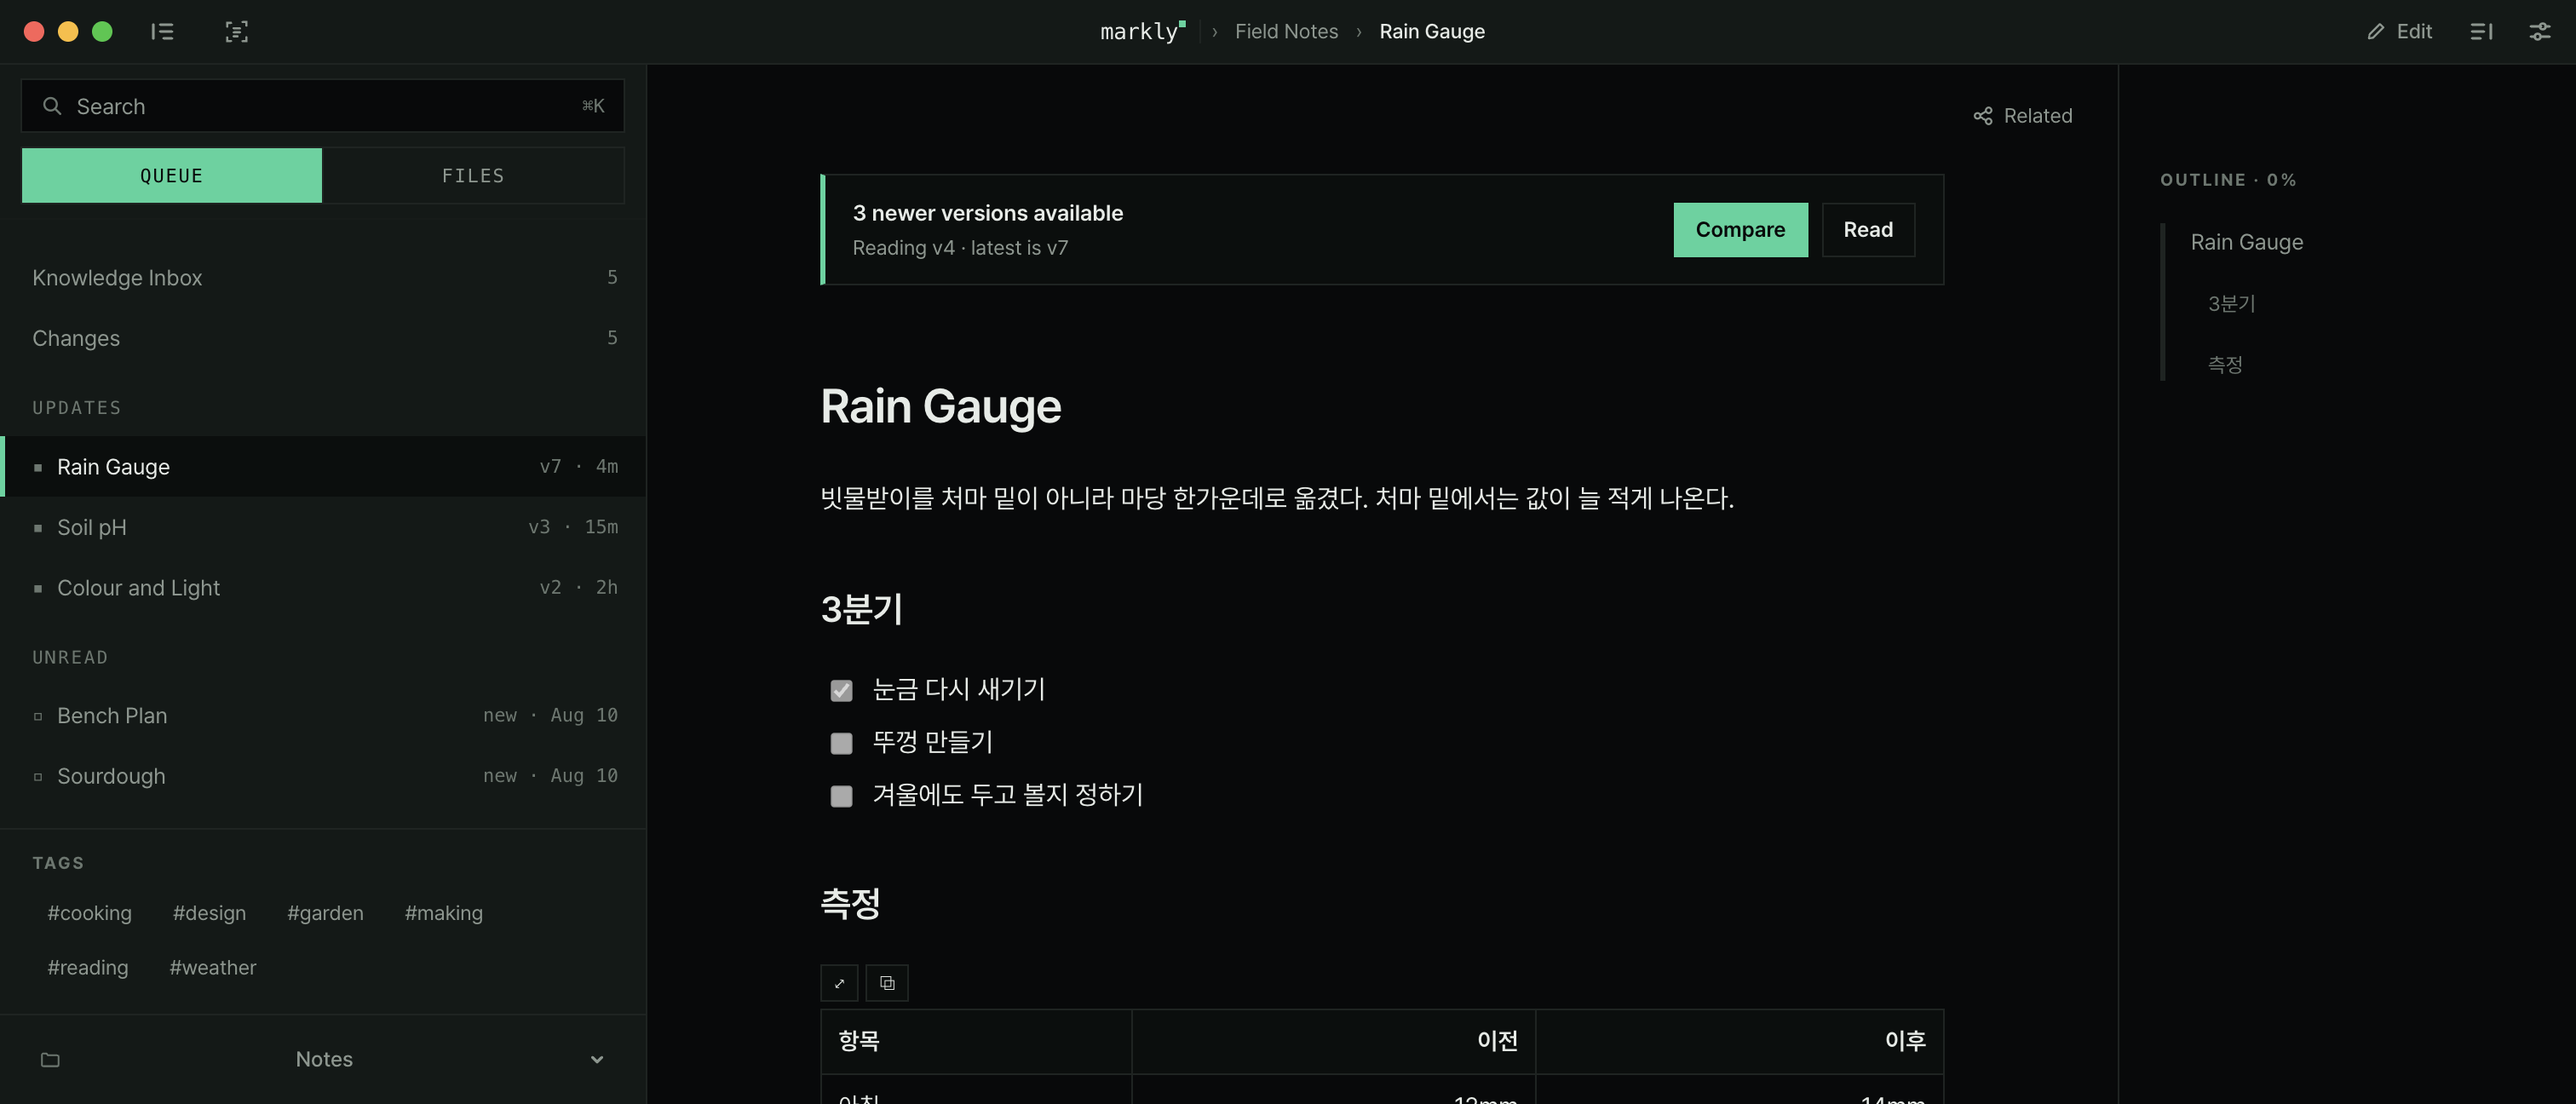
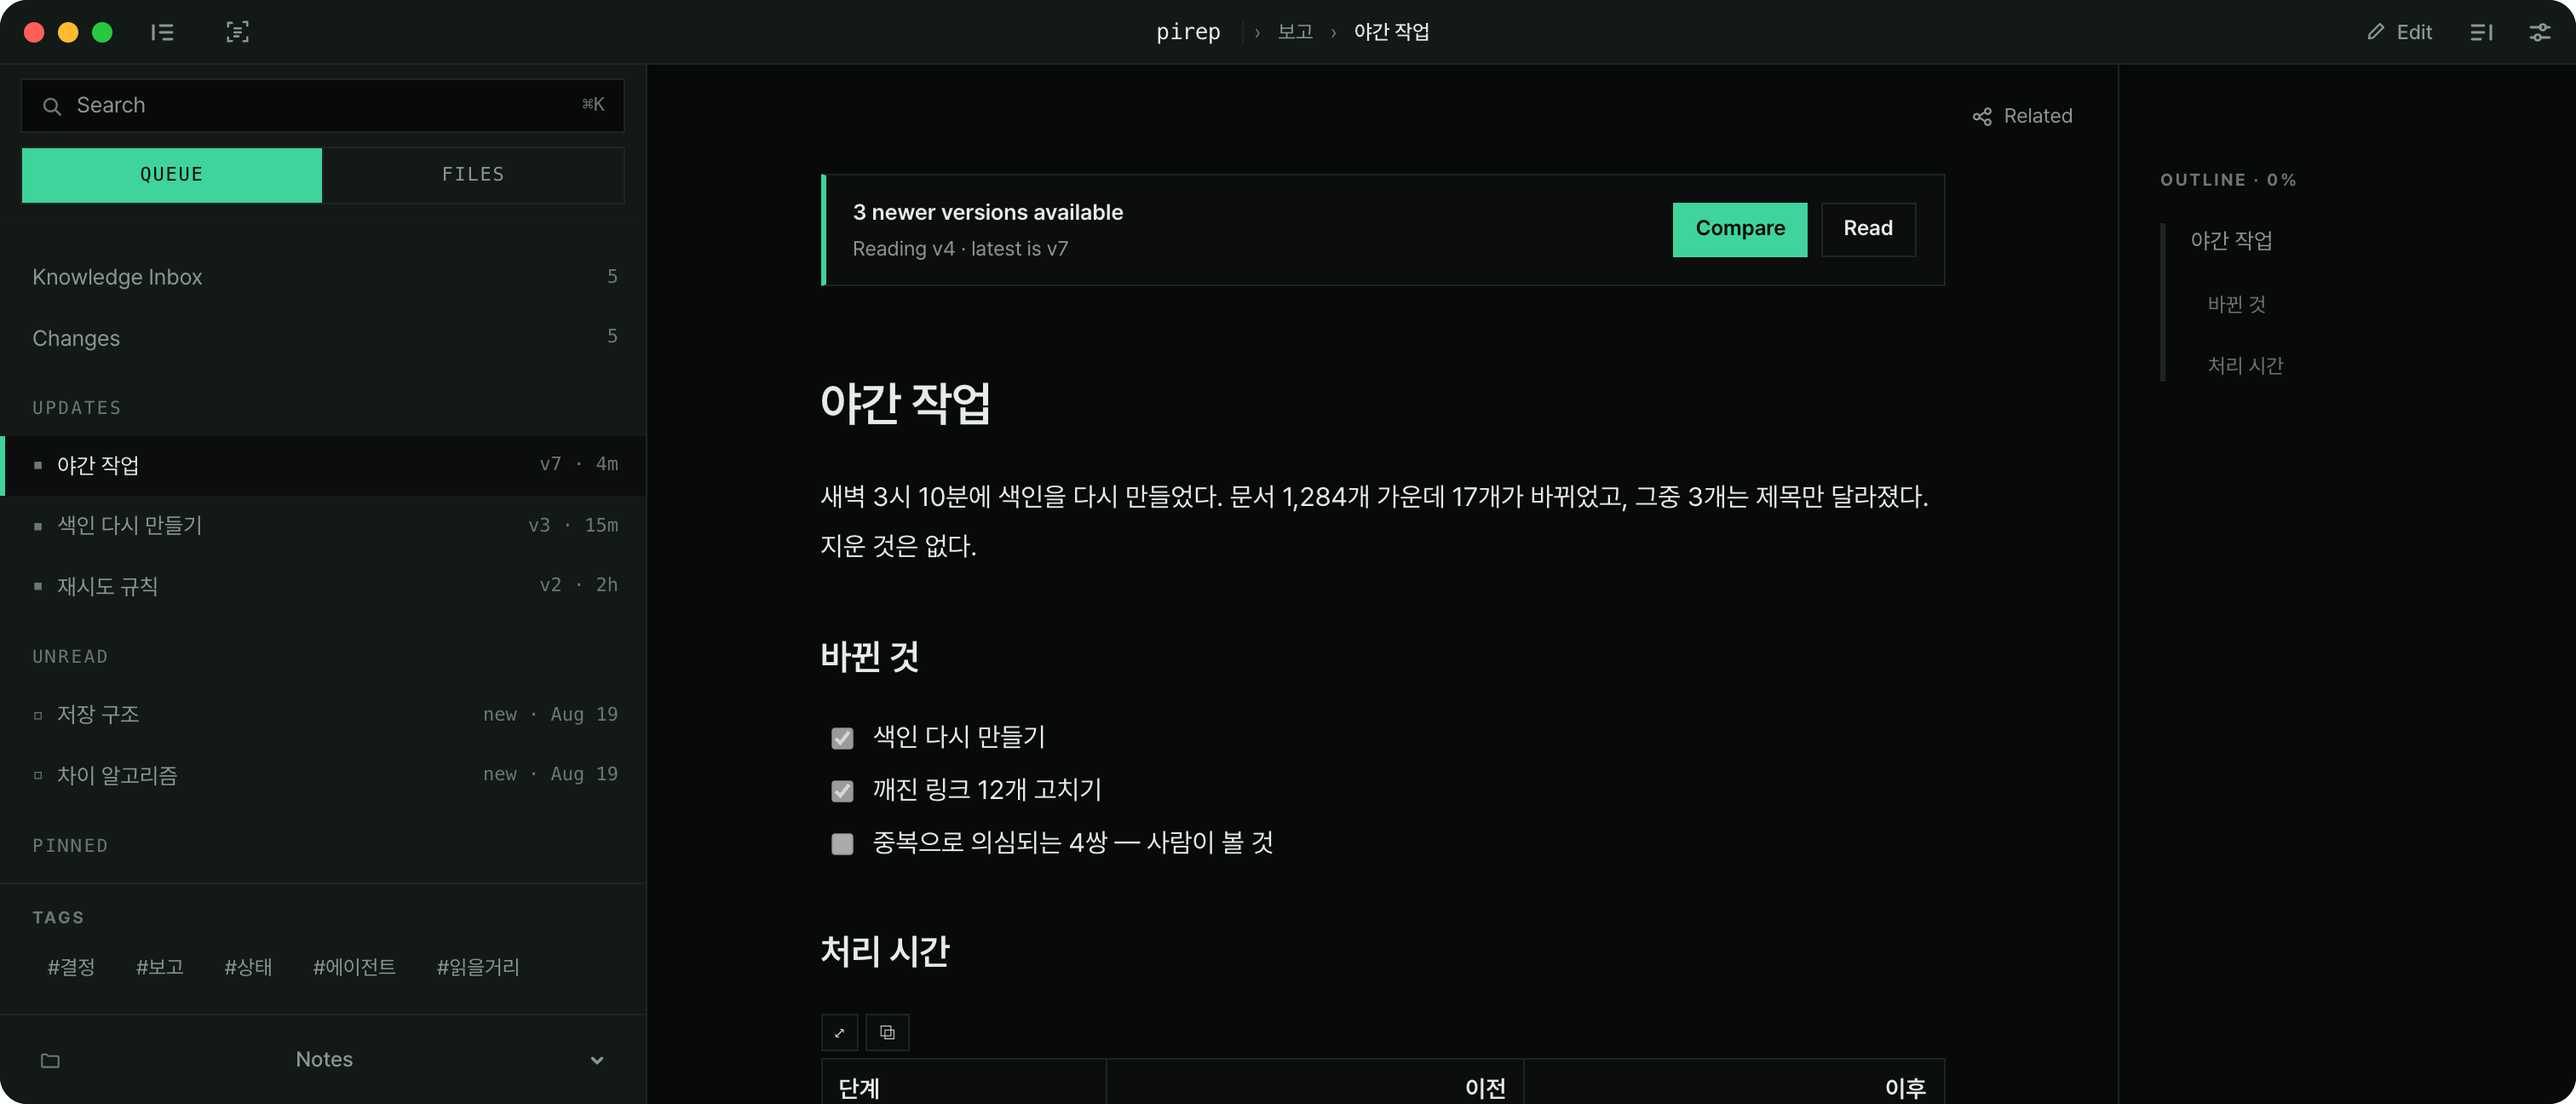
feat: retake the screenshots and tidy the install section
The screenshots still showed the old name in the window. They are taken in a
browser now, from the demo build of the app's own components, so a retake
needs no desktop session: light and dark, 1512x648 at 2x, English pages get
their own pair.

The install section had turned into a stack of unlike rows — two links, a
grey line, then two more grey lines. It is now the command, one sentence
about the dmg with the first-launch step attached to it, and a two-line
footnote. The link to the script is gone: from the English page it resolved
to /en/install.sh, which Pages answered with the site shell rather than the
script. The version in the facts table links to the changelog instead.

install.sh speaks English now — its comments already did, but everything it
prints while installing was in Korean.

Claude-Session: https://claude.ai/code/session_01E7TjQGctJ1UY3Fng7a3haP

diff --git a/site/en/index.html b/site/en/index.html
@@ -120,8 +120,8 @@ You read.</span></h1>
 
   <div  style="border-bottom: 1px solid var(--line); background: var(--bg-2);">
     <div  style="max-width: 1120px; margin: 0px auto; padding: 48px 28px 0px;">
-      <img  src="../assets/hero-reader-light.png" alt="The pirep reader — reading queue on the left, the note in the middle, its outline on the right" style="display: block; width: 100%; height: auto; border-top-color: ; border-top-style: ; border-top-width: ; border-right-color: ; border-right-style: ; border-right-width: ; border-bottom: 0px; border-left-color: ; border-left-style: ; border-left-width: ; border-image-source: ; border-image-slice: ; border-image-width: ; border-image-outset: ; border-image-repeat: ; background: var(--bg);">
-      <img  src="../assets/hero-reader-dark.png" alt="The pirep reader — reading queue on the left, the note in the middle, its outline on the right" style="display: none; width: 100%; height: auto; border-top-color: ; border-top-style: ; border-top-width: ; border-right-color: ; border-right-style: ; border-right-width: ; border-bottom: 0px; border-left-color: ; border-left-style: ; border-left-width: ; border-image-source: ; border-image-slice: ; border-image-width: ; border-image-outset: ; border-image-repeat: ; background: var(--bg);">
+      <img  src="../assets/hero-reader-en-light.png" alt="The pirep reader — reading queue on the left, the note in the middle, its outline on the right" style="display: block; width: 100%; height: auto; border-top-color: ; border-top-style: ; border-top-width: ; border-right-color: ; border-right-style: ; border-right-width: ; border-bottom: 0px; border-left-color: ; border-left-style: ; border-left-width: ; border-image-source: ; border-image-slice: ; border-image-width: ; border-image-outset: ; border-image-repeat: ; background: var(--bg);">
+      <img  src="../assets/hero-reader-en-dark.png" alt="The pirep reader — reading queue on the left, the note in the middle, its outline on the right" style="display: none; width: 100%; height: auto; border-top-color: ; border-top-style: ; border-top-width: ; border-right-color: ; border-right-style: ; border-right-width: ; border-bottom: 0px; border-left-color: ; border-left-style: ; border-left-width: ; border-image-source: ; border-image-slice: ; border-image-width: ; border-image-outset: ; border-image-repeat: ; background: var(--bg);">
     </div>
   </div>
 
@@ -351,19 +351,14 @@ You read.</span></h1>
 <span style="color: var(--text-3);">$ </span>open -a pirep</div>
             </div>
           </div>
-          <div  style="display: flex; align-items: center; gap: 14px; flex-wrap: wrap; margin-top: 18px;">
-            <a  href="https://github.com/garamnohhh/pirep/releases/latest" style="font-size: 12.5px;">Download the dmg (14 MB)</a>
-            <a  href="./install.sh" style="font-size: 12.5px;">Read the script</a>
-            <span  class="gn-mono" style="font-size: 11px; color: var(--text-3);">Apple silicon · Windows and Linux are on the way</span>
-            <a  href="./changelog.html" style="font-size: 12.5px;">See what changed in 0.1.1</a>
-          </div>
-          <p  class="gn-mono" style="font-size: 11px; line-height: 1.8; color: var(--text-3); margin: 14px 0px 0px; max-width: 52ch;">With the dmg, the first launch needs one click in System Settings &gt; Privacy &amp; Security &gt; Open Anyway.<br>To remove it: rm -rf /Applications/pirep.app</p>
+          <p  style="font-size: 12.5px; line-height: 1.8; color: var(--text-2); margin: 16px 0px 0px; max-width: 52ch; text-wrap: pretty;">If you would rather not use a terminal, take the dmg from the <a href="https://github.com/garamnohhh/pirep/releases/latest">release page</a>. An app installed that way needs one pass through System Settings &gt; Privacy &amp; Security &gt; Open Anyway on its first launch.</p>
+          <p  class="gn-mono" style="font-size: 11px; line-height: 1.8; color: var(--text-3); margin: 12px 0px 0px;">macOS on Apple silicon. Windows and Linux are on the way.<br>To remove it: rm -rf /Applications/pirep.app</p>
         </div>
         <div  style="border: 1px solid var(--line); background: var(--surface); margin-top: 38px;">
           
             <div  style="display: flex; align-items: baseline; gap: 20px; padding: 14px 20px; border-bottom: 1px solid var(--line-soft);">
               <span  class="gn-mono" style="font-size: 11px; letter-spacing: 0.14em; text-transform: uppercase; color: var(--text-3); width: 104px; flex: 0 0 auto;"><span class="sc-interp">VERSION</span></span>
-              <span  class="gn-mono" style="flex: 1 1 0%; min-width: 0px; font-size: 12.5px; color: var(--text); text-align: right;"><span class="sc-interp">0.1.1 · 2026.09.18</span></span>
+              <span  class="gn-mono" style="flex: 1 1 0%; min-width: 0px; font-size: 12.5px; color: var(--text); text-align: right;"><span class="sc-interp"><a href="./changelog.html">0.1.1 · 2026.09.18</a></span></span>
             </div>
           
             <div  style="display: flex; align-items: baseline; gap: 20px; padding: 14px 20px; border-bottom: 1px solid var(--line-soft);">

diff --git a/site/index.html b/site/index.html
@@ -351,19 +351,14 @@ img[src*="assets/"] { border: 1px solid var(--line); }
 <span style="color: var(--text-3);">$ </span>open -a pirep</div>
             </div>
           </div>
-          <div  style="display: flex; align-items: center; gap: 14px; flex-wrap: wrap; margin-top: 18px;">
-            <a  href="https://github.com/garamnohhh/pirep/releases/latest" style="font-size: 12.5px;">dmg로 받기 (14 MB)</a>
-            <a  href="./install.sh" style="font-size: 12.5px;">스크립트 보기</a>
-            <span  class="gn-mono" style="font-size: 11px; color: var(--text-3);">Apple 실리콘 · Windows · Linux는 준비 중이에요</span>
-            <a  href="./changelog.html" style="font-size: 12.5px;">0.1.1 업데이트 기록 보기</a>
-          </div>
-          <p  class="gn-mono" style="font-size: 11px; line-height: 1.8; color: var(--text-3); margin: 14px 0px 0px; max-width: 52ch;">dmg로 받으면 첫 실행 때 시스템 설정 &gt; 개인정보 보호 및 보안에서 열기를 한 번 눌러요.<br>지울 때는 rm -rf /Applications/pirep.app</p>
+          <p  style="font-size: 12.5px; line-height: 1.8; color: var(--text-2); margin: 16px 0px 0px; max-width: 52ch; text-wrap: pretty;">터미널이 싫으면 <a href="https://github.com/garamnohhh/pirep/releases/latest">릴리스 페이지</a>에서 dmg를 받으세요. dmg로 받은 앱은 첫 실행 때 시스템 설정 &gt; 개인정보 보호 및 보안에서 한 번 열어 줘야 해요.</p>
+          <p  class="gn-mono" style="font-size: 11px; line-height: 1.8; color: var(--text-3); margin: 12px 0px 0px;">macOS · Apple 실리콘. Windows와 Linux는 준비 중이에요.<br>지울 때는 rm -rf /Applications/pirep.app</p>
         </div>
         <div  style="border: 1px solid var(--line); background: var(--surface); margin-top: 38px;">
           
             <div  style="display: flex; align-items: baseline; gap: 20px; padding: 14px 20px; border-bottom: 1px solid var(--line-soft);">
               <span  class="gn-mono" style="font-size: 11px; letter-spacing: 0.14em; text-transform: uppercase; color: var(--text-3); width: 104px; flex: 0 0 auto;"><span class="sc-interp">VERSION</span></span>
-              <span  class="gn-mono" style="flex: 1 1 0%; min-width: 0px; font-size: 12.5px; color: var(--text); text-align: right;"><span class="sc-interp">0.1.1 · 2026.09.18</span></span>
+              <span  class="gn-mono" style="flex: 1 1 0%; min-width: 0px; font-size: 12.5px; color: var(--text); text-align: right;"><span class="sc-interp"><a href="./changelog.html">0.1.1 · 2026.09.18</a></span></span>
             </div>
           
             <div  style="display: flex; align-items: baseline; gap: 20px; padding: 14px 20px; border-bottom: 1px solid var(--line-soft);">
